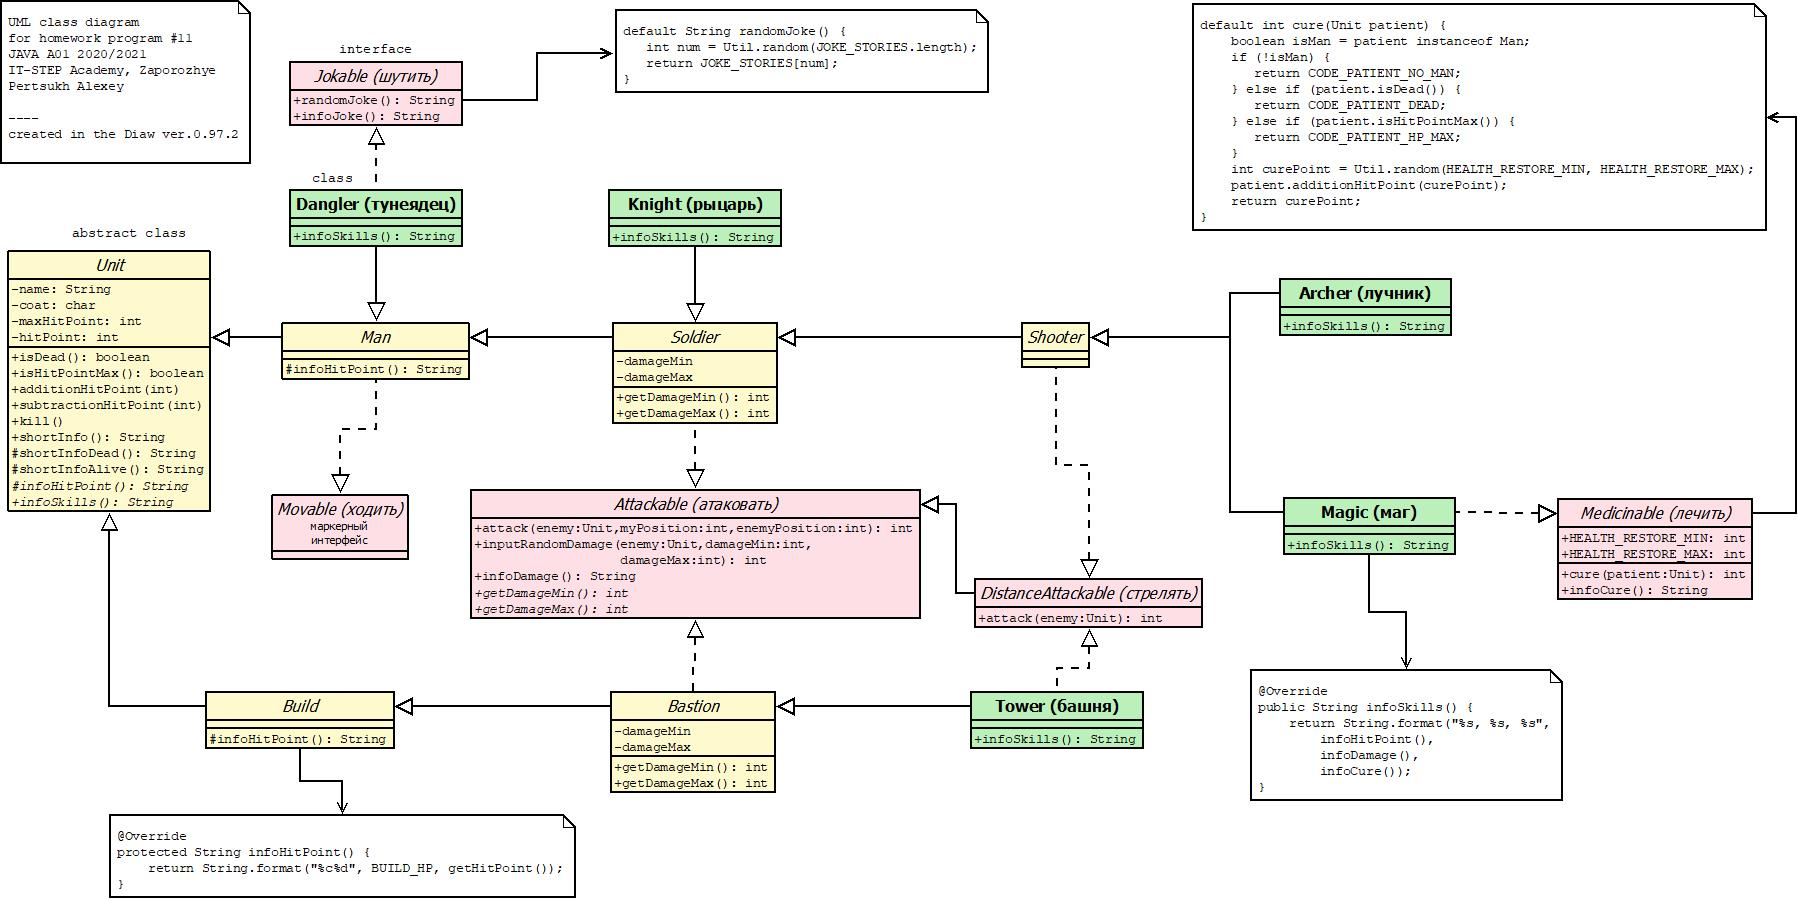
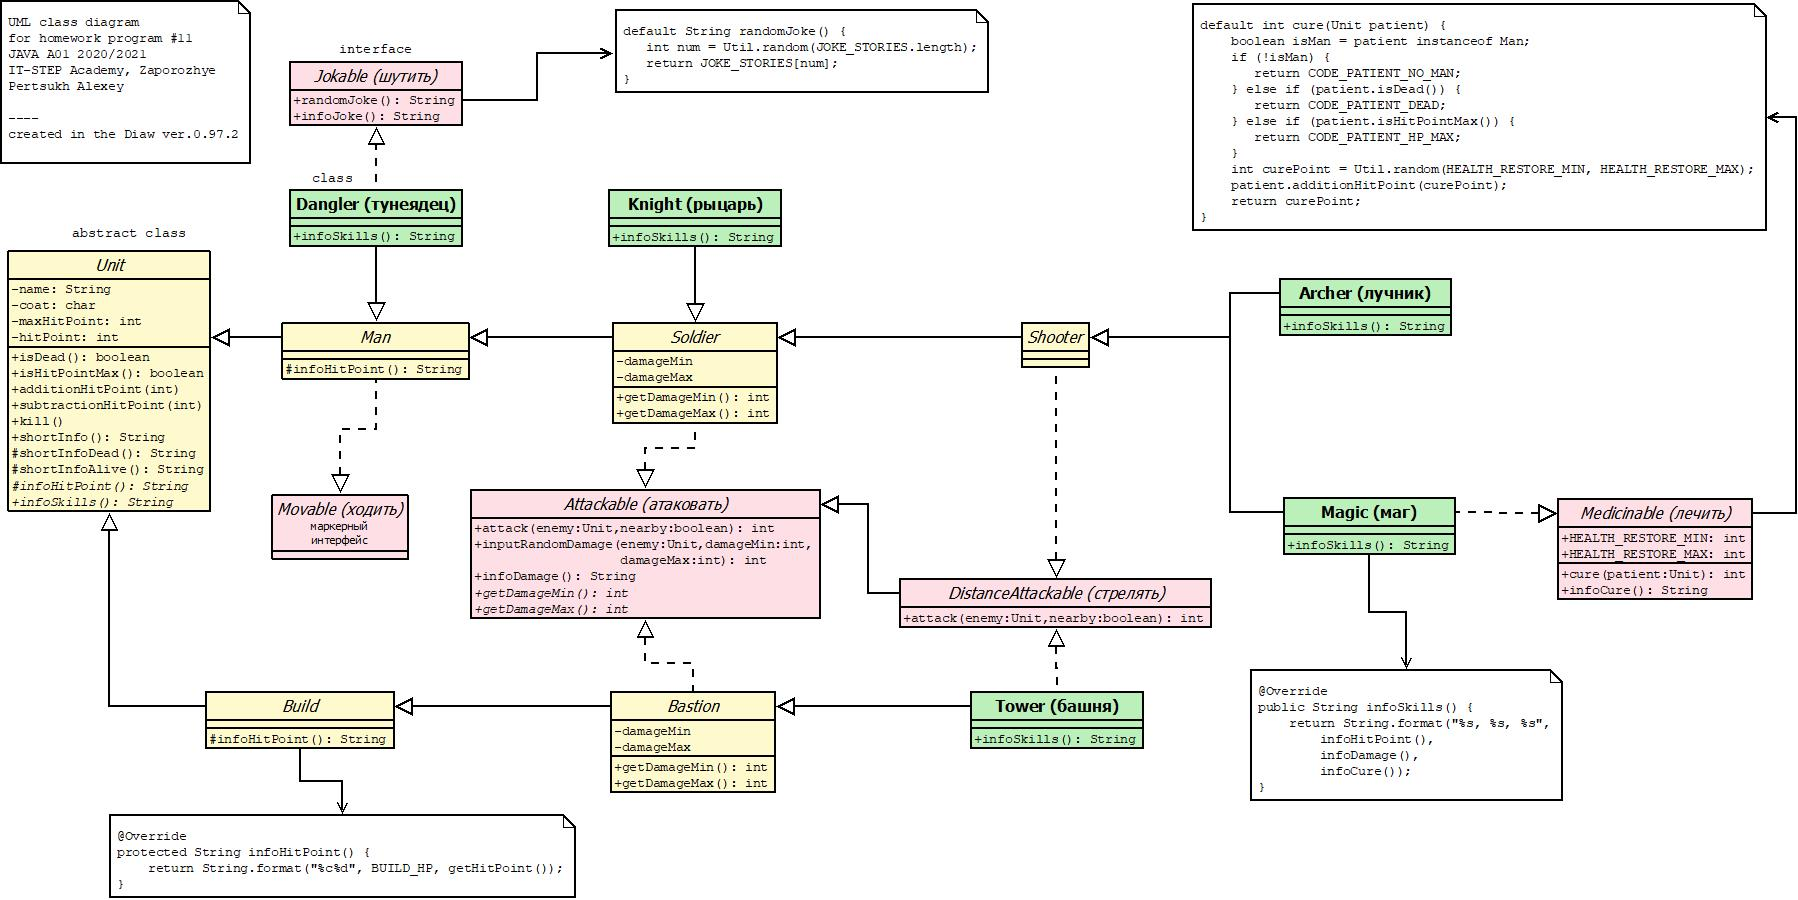
modify: Attackable

Changed region(s): [[0.3115, 0.5289, 0.6852, 0.7156]]

diff --git a/src/com/interfaces/Attackable.java b/src/com/interfaces/Attackable.java
@@ -11,10 +11,8 @@ public interface Attackable {
     int CODE_ENEMY_DEAD = -2;   //нельзя атаковать убитого
 
     //атака
-    default int attack(Unit enemy, int myPosition, int enemyPosition) {
-        Unit unit = (Unit) this;
-
-        if (myPosition != enemyPosition) {
+    default int attack(Unit enemy, boolean nearby) {
+        if (!nearby) {
             return CODE_TOO_FAR;
         }
 

diff --git a/src/com/game/Game.java b/src/com/game/Game.java
@@ -280,7 +280,7 @@ public class Game {
             return false;
         }
 
-        int attackResult = ((Attackable) unit).attack(enemy, board.getPosition(unit), board.getPosition(enemy));
+        int attackResult = ((Attackable) unit).attack(enemy, board.getPosition(unit) == board.getPosition(enemy));
         if (attackResult < 0) {
             printMessageAttackFail(unit, attackResult);
             return false;

diff --git a/src/com/interfaces/DistanceAttackable.java b/src/com/interfaces/DistanceAttackable.java
@@ -5,7 +5,7 @@ import com.units.Unit;
 //атакующий дистанционно
 public interface DistanceAttackable extends Attackable {
     @Override
-    default int attack(Unit enemy, int myPosition, int enemyPosition) {
+    default int attack(Unit enemy, boolean nearby) {
         return inputRandomDamage(enemy, getDamageMin(), getDamageMax());
     }
 }

diff --git a/src/com/game/Info.java b/src/com/game/Info.java
@@ -79,9 +79,5 @@ public class Info {
         return "ver." + version + " Dedicated to the Heroes of Might and Magic II  ";
     }
 
-    public static String onEnd(String version) {
-        return "ver." + version + " Dedicated to the Heroes of Might and Magic II  ";
-    }
-
 
 }
